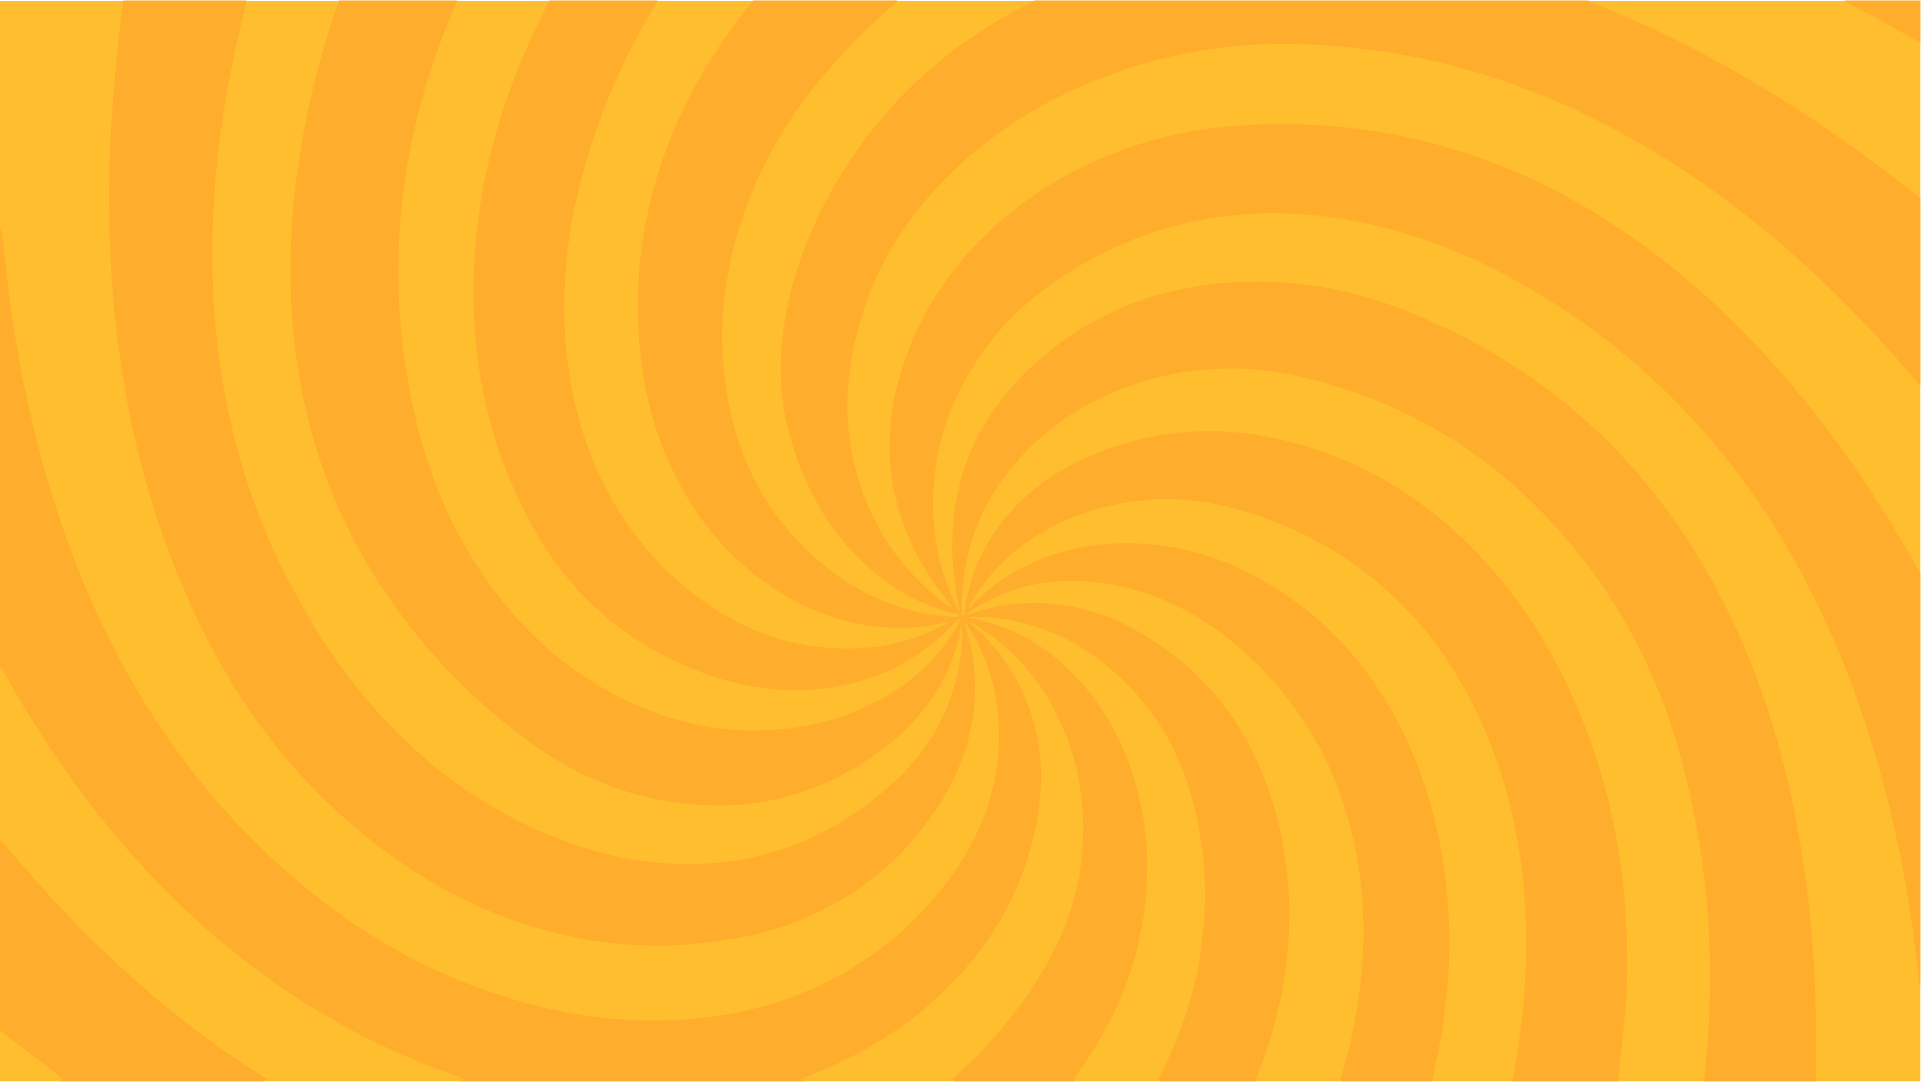
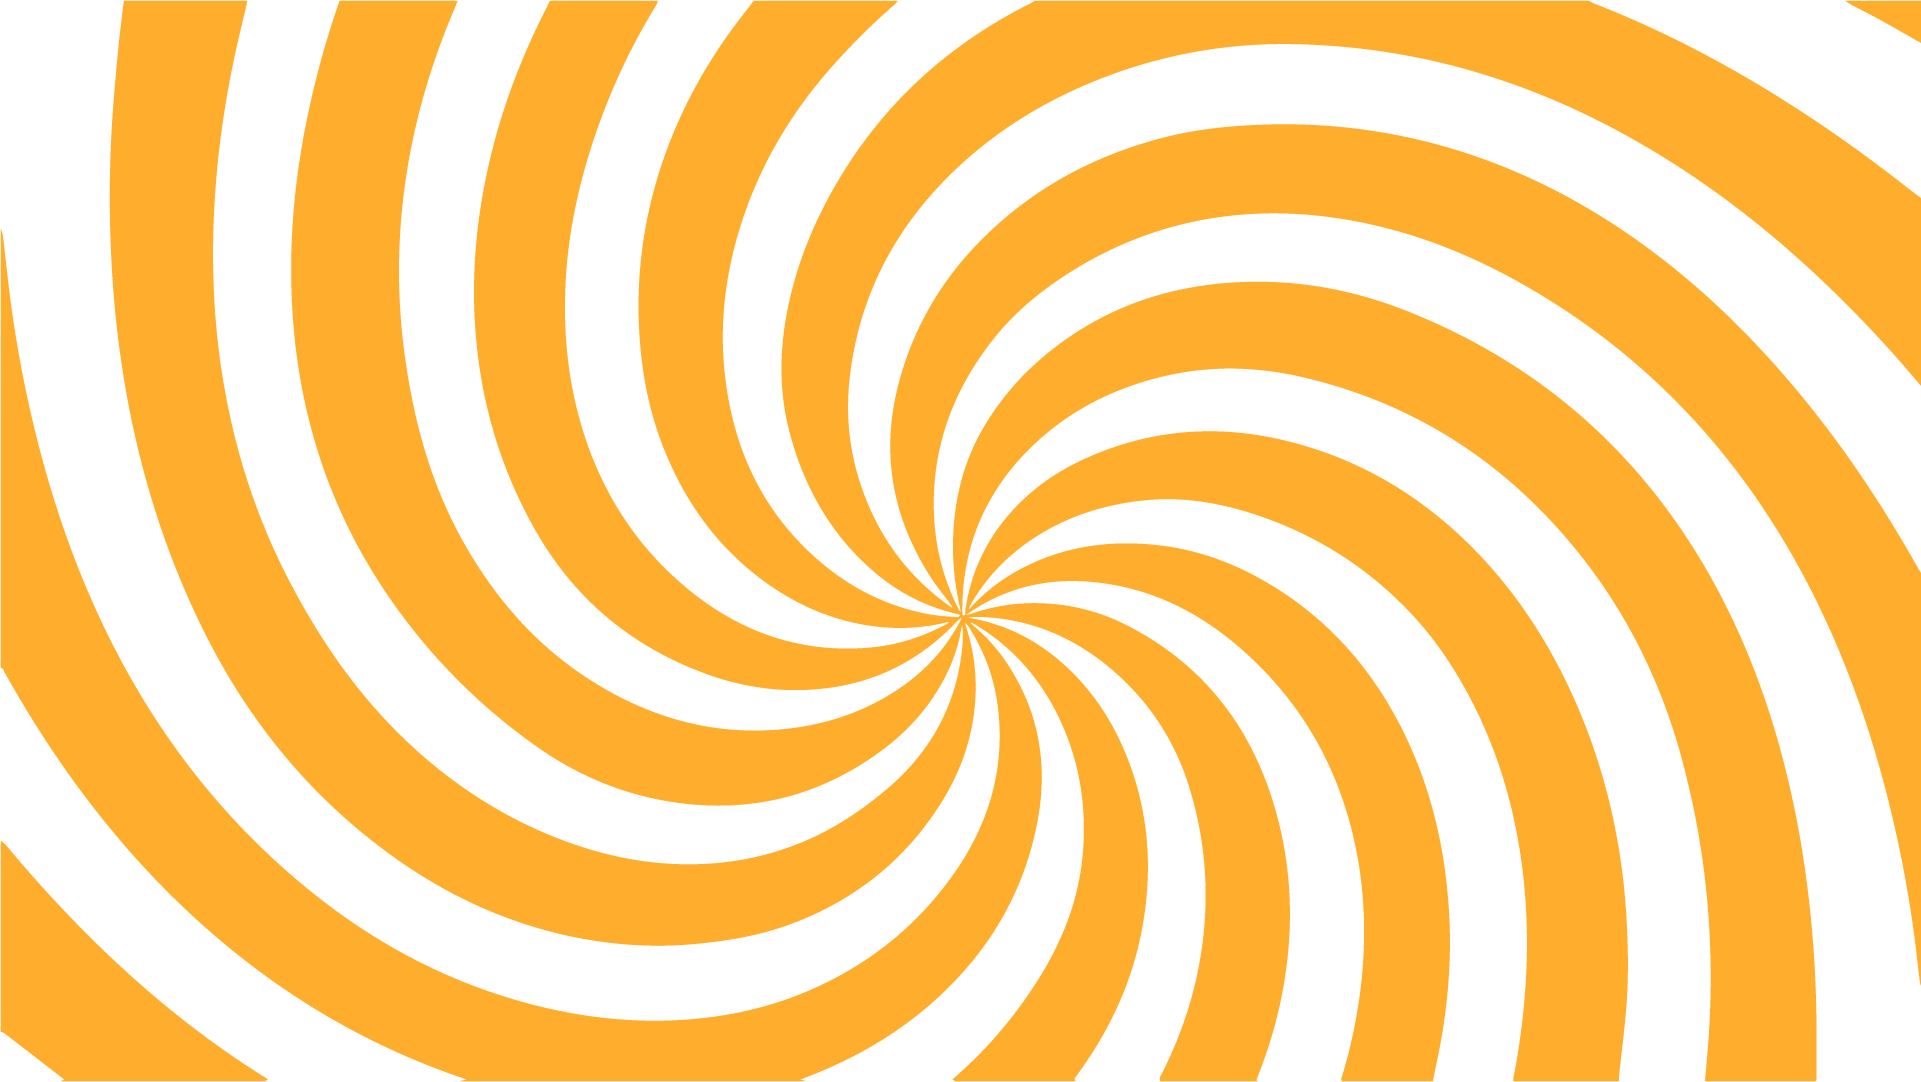
new

diff --git a/src/index.css b/src/index.css
@@ -57,11 +57,11 @@
     background-color: #000;
   }
 
-  .hero-main{
+  /* .hero-main{
     background-image: url('../public/images/bg-main.png');
     background-size: cover;
     background-repeat: no-repeat;
-  }
+  } */
 
   .road-bg{
     background-image: url('../public/images/road-bg.png');
@@ -69,4 +69,35 @@
     background-repeat: no-repeat;
 
 
+  }
+
+  .floating {
+    animation-name: floating;
+    animation-duration: 2s;
+    animation-iteration-count: infinite;
+    animation-timing-function: ease-in-out;
+  }
+  .anime2 {
+    animation: animName 5s linear infinite;
+  }
+  
+  @keyframes floating {
+    0% {
+      transform: translate(0, 0px);
+    }
+    50% {
+      transform: translate(0, 15px);
+    }
+    100% {
+      transform: translate(0, -0px);
+    }
+  }
+  
+  @keyframes animName {
+    0% {
+      transform: rotate(0deg);
+    }
+    100% {
+      transform: rotate(360deg);
+    }
   }

diff --git a/src/components/Hero.jsx b/src/components/Hero.jsx
@@ -2,8 +2,9 @@ import React from "react";
 
 function Hero() {
   return (
-    <section className="hero-main relative">
-      <div className=" container-wrapper pt-[25%] sm:pt-[10%]">
+    <section className="hero-main relative overflow-x-hidden bg-[#ffbe2d] ">
+      <img src="images/bg-main.png" alt="" className="anime2  overflow-x-hidden " />
+      <div className=" container-wrapper pt-[25%] sm:pt-[10%] ">
         <div>
           <img src="images/hero-txt.png" alt="" className=" mx-auto h-auto sm:h-[200px] w-auto my-[1.5%]" />
 
